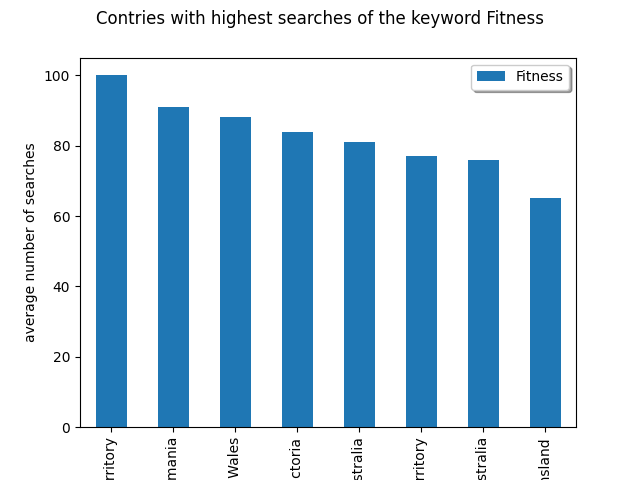
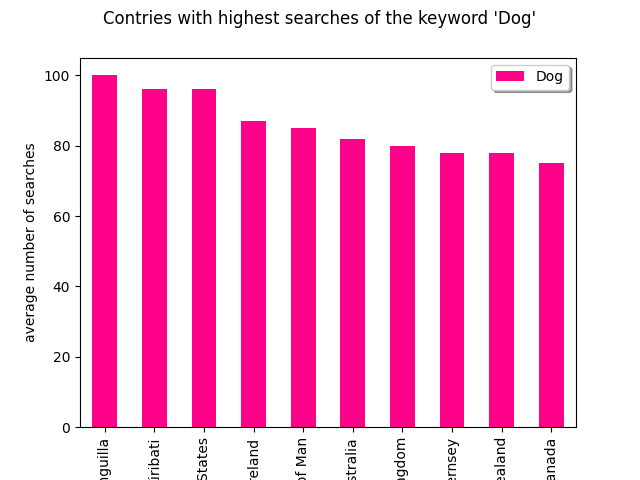
few addition

diff --git a/templates/index.html b/templates/index.html
@@ -189,7 +189,32 @@
 
   </div>
 </div>
- 
+</div>
+<div class="container">
+  <div class="row">
+    <div class="col-sm-6">
+      <div class="card">
+        <div class="card-body">
+          <h5 class="card-title">Top related searches to the keyword you have provided rated as a percentage</h5>
+          {% for table in top_related_queries %}
+             {{ table|safe }}
+          {% endfor %}
+        </div>
+      </div>
+    </div>
+    <div class="col-sm-6">
+      <div class="card">
+        <div class="card-body">
+          <h5 class="card-title">Rising related searches to the keyword you have provided</h5>
+
+          {% for tabl in rising_related_queries %}
+              {{ tabl|safe }}
+          {% endfor %}
+        </div>
+      </div>
+    </div>
+  </div>
+</div>
 <div class="geodata">
   <!-- <h1>Geographical distribution</h1> -->
   <img class="geo" src="{{url_for('static', filename='View.png')}}" alt="Youtube Geodata image"/>
@@ -211,6 +236,7 @@
   <div class="card-body">
     <h5 class="card-title">Special title treatment</h5>
     <b>Conclusions basing on the table: </b>
+    <b>{{pn}}</b>
     <p>Your country "{{Country}}" has the most popular youtuber "{{YoutuberName}}" creating "{{ContentType}}". You can as well create "{{ContentType}}" type of content</p>
   </div>
 </div>

diff --git a/app.py b/app.py
@@ -9,11 +9,11 @@ import matplotlib.pyplot as plt
 import os
 # create a pytrends object.request data from Google trends
 # pytrends = TrendReq(hl='en-US',requests_args={'verify':False})
-pytrends = TrendReq(hl='en-US')
+pytrends = TrendReq(hl='en-US',timeout=None,retries=4)
 
 app = Flask(__name__)
 
-@app.route("/")
+@app.route("/",methods=['GET', 'POST'])
 def index():
 
     results = []
@@ -22,19 +22,25 @@ def index():
             "key": country.alpha_2,
             "text": "{}".format(country.name, country.alpha_2),
             })
-    al=[]
-    for d in results:
-        a=(d['text'])
-        al.append(a)
+
+    # results=[{"key": country.alpha_2,"text": "{}".format(country.name, country.alpha_2),}for country in pycountry.countries]
+
+    # al=[]
+    # for d in results:
+    #     a=(d['text'])
+    #     al.append(a)
+    al=[d['text'] for d in results]
+
     
     timeframes = [{'key': 'today 5-y', 'text': '5 year period'},
                   {'key': 'today 12-m', 'text': '1 year period'},
                   {'key': 'today 3-m', 'text': '3 months period'},
                   {'key': 'today 1-m', 'text': '1 month period'}]
-    period=[]
-    for a in timeframes:
-        d=(a['text'])
-        period.append(d)
+    # period=[]
+    # for a in timeframes:
+    #     d=(a['text'])
+    #     period.append(d)
+    period=[(a['text']) for a in timeframes]
         
     if request.method=='POST':        
         searchword = request.form.get("searchword")
@@ -52,7 +58,7 @@ def index():
     
     
     # states=state.pop()
-    keyword=['Fitness']
+    keyword=['Dog']
     # extract data about keywords
     # your_input=str(input('Enter the keyword: '))
     # your_input='Computer'
@@ -61,9 +67,11 @@ def index():
     # keyword.insert(0, your_input)
     # pytrends.build_payload(keyword,timeframe= 'today 3-m',gprop = 'youtube')
 
-    pytrends.build_payload(keyword,timeframe=f'2020-02-26 {date.today()}', gprop = 'youtube', geo='AU')
+    # pytrends.build_payload(keyword,timeframe=f'2020-02-26 {date.today()}', gprop = 'youtube', geo='AU')
+    
+    pytrends.build_payload(keyword,timeframe='today 5-y', gprop = 'youtube', geo='KE')
     # word=keyword.pop()
-    word='Fitness'
+    word='Dog'
     
     # specify and get data
     data= pytrends.interest_over_time()
@@ -81,18 +89,23 @@ def index():
     plt.legend(loc='best', shadow=True)
     plt.savefig('static/images/plot.png')
 
+    pytrend = TrendReq(hl='en-US',timeout=None,retries=4)
+    pytrend.build_payload(keyword,timeframe='today 5-y', gprop = 'youtube', geo='')
     # extract country-level data about the keywords
-    data1=pytrends.interest_by_region(resolution='COUNTRY',inc_low_vol=True)
+
+    data1=pytrend.interest_by_region(resolution='COUNTRY',inc_low_vol=True)
     data1.index.name = None
     data1.columns=[word]
-    
 
+ 
+    
     dat2=data1.astype(float).nlargest(10, word)
     #plot bar char with Pandas
-    dat2.plot(kind='bar')
+    dat2.plot(kind='bar',color='#ff028a')
+
 
     # add titles
-    plt.suptitle("Contries with highest searches of the keyword {}".format(word))
+    plt.suptitle("Contries with highest searches of the keyword '{}'".format(word))
     plt.xlabel("Countries")
     plt.ylabel("average number of searches")
     plt.legend(loc='best', shadow=True)
@@ -113,13 +126,24 @@ def index():
     df = pd.read_csv(target)
     df.columns=['Country','YoutuberName','ContentType']
 
-    
-    ContentType=df[df.iloc[:,0]=='Zimbabwe'].iloc[0,2]
-    YoutuberName=df[df.iloc[:,0]=='Zimbabwe'].iloc[0,1]
 
-    return render_template('index.html',al=al,word=word,one=one,two=two,three=three,Country=[],
-    four=four,period=period,YoutuberName=YoutuberName,ContentType=ContentType,tables=[data.to_html(classes='data', header="true")],
-    table1=[data1.to_html(classes='data1', header="true")],url='/static/images/plot.png',
+    
+    ContentType=df[df.iloc[:,0]=='Kenya'].iloc[0,2]
+    YoutuberName=df[df.iloc[:,0]=='Kenya'].iloc[0,1]
+
+    # test
+    df_queries = pytrends.related_queries()
+    top_related_queries = df_queries.get(word).get("top")
+    # top_related_queries.sort_values(['value'], ascending = False).head(10).reset_index(drop = True)
+    rising_related_queries= df_queries.get(word).get("rising")
+    # rising_related_queries.sort_values(['value'], ascending = False).head(10)
+
+
+    ###NOTE!!!!Let it print "Enter a more valid word in case of error"
+
+    return render_template('index.html',al=al,word=word,one=one,two=two,three=three,Country=[],table1=[data1.to_html(classes='data1', header="true")],
+    four=four,period=period,YoutuberName=YoutuberName,ContentType=ContentType,tables=[data.to_html(classes='data', header="true")],top_related_queries=[top_related_queries.to_html(classes='data', header="true")],rising_related_queries=[rising_related_queries.to_html(classes='data', header="true")],
+    url='/static/images/plot.png',
     url1='/static/images/plot1.png',table3=[df.to_html(classes='data3')])
 
 if __name__ =='__main__':
